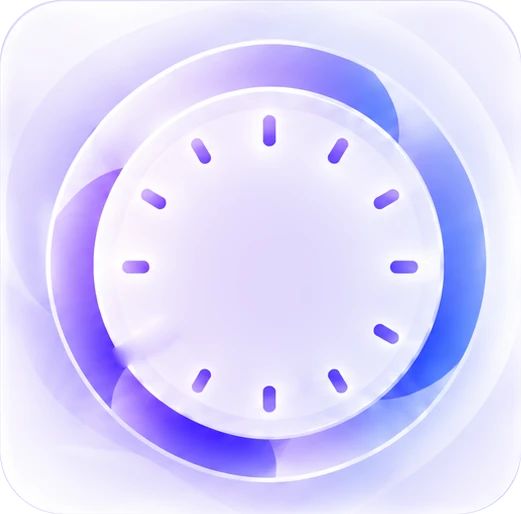
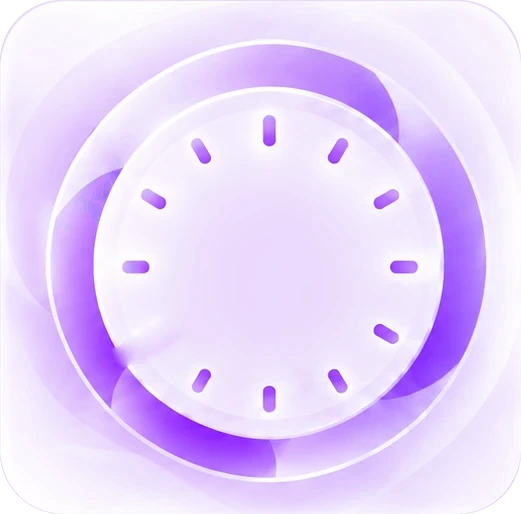
Update 5 · 3: the Clock widget in violet / lilac — no blue left (picture, marks, hands, time)
The blue hues of the card art are moved into the logo's violet range with
saturation and brightness kept, so the gradients stay soft. The dial layout,
12 marks, three live hands and the 2 × 2 / 4 × 2 content are unchanged.

Claude-Session: https://claude.ai/code/session_01WDFR9r65Qa3xHCEuWiWfKe

diff --git a/apps/web/src/os/home/widgets.tsx b/apps/web/src/os/home/widgets.tsx
@@ -176,26 +176,26 @@ function ClockFace({ zone, className, style }: { zone: string; className?: strin
       <defs>
         {/* The marks of the picture: deep violet at the centre side, lighter outwards. */}
         <linearGradient id={id("tick")} gradientUnits="userSpaceOnUse" x1="100" y1="30.7" x2="100" y2="14.2">
-          <stop offset="0" stopColor="#7754fd" />
-          <stop offset="1" stopColor="#b08cfc" />
+          <stop offset="0" stopColor="#a954fd" />
+          <stop offset="1" stopColor="#c78cfc" />
         </linearGradient>
         {/* The hands: a deep blue-violet at the centre, lavender at the tip (as in the picture). */}
         <linearGradient id={id("hand")} gradientUnits="userSpaceOnUse" x1="100" y1="100" x2="100" y2="22">
-          <stop offset="0" stopColor="#3b20ef" />
-          <stop offset="0.55" stopColor="#6f4dfb" />
-          <stop offset="1" stopColor="#ad97ff" />
+          <stop offset="0" stopColor="#8520ef" />
+          <stop offset="0.55" stopColor="#a44dfb" />
+          <stop offset="1" stopColor="#cb97ff" />
         </linearGradient>
         <radialGradient id={id("knobRing")} cx="0.42" cy="0.38" r="0.62">
-          <stop offset="0" stopColor="#d4c6fe" />
-          <stop offset="0.72" stopColor="#9374fc" />
-          <stop offset="1" stopColor="#b9a0fd" />
+          <stop offset="0" stopColor="#e3c6fe" />
+          <stop offset="0.72" stopColor="#b974fc" />
+          <stop offset="1" stopColor="#d0a0fd" />
         </radialGradient>
         <radialGradient id={id("knob")} cx="0.38" cy="0.32" r="0.7">
-          <stop offset="0" stopColor="#f1ecff" />
-          <stop offset="1" stopColor="#c3b0fd" />
+          <stop offset="0" stopColor="#f6ecff" />
+          <stop offset="1" stopColor="#d7b0fd" />
         </radialGradient>
         <filter id={id("sh")} filterUnits="userSpaceOnUse" x="-20" y="-20" width="240" height="240">
-          <feDropShadow dx="0" dy="1.6" stdDeviation="1.8" floodColor="#3a1fd6" floodOpacity="0.3" />
+          <feDropShadow dx="0" dy="1.6" stdDeviation="1.8" floodColor="#791fd6" floodOpacity="0.3" />
         </filter>
       </defs>
       {Array.from({ length: 12 }, (_, i) => (
@@ -208,7 +208,7 @@ function ClockFace({ zone, className, style }: { zone: string; className?: strin
         <line x1={100} y1={106} x2={100} y2={27} stroke={url("hand")} strokeWidth={8.5} strokeLinecap="round" filter={url("sh")} />
       </g>
       <g ref={second} data-testid="clock-widget-second">
-        <line x1={100} y1={124} x2={100} y2={10} stroke="#4526f0" strokeWidth={2.4} strokeLinecap="round" filter={url("sh")} />
+        <line x1={100} y1={124} x2={100} y2={10} stroke="#8926f0" strokeWidth={2.4} strokeLinecap="round" filter={url("sh")} />
       </g>
       <circle cx={100} cy={100} r={17} fill={url("knobRing")} filter={url("sh")} />
       <circle cx={100} cy={100} r={10.5} fill={url("knob")} />
@@ -291,7 +291,7 @@ function ClockWidget({ preview, size }: { preview?: boolean; size?: WidgetSize }
             <span className="truncate font-semibold leading-tight text-[#1d1b2b]" style={{ fontSize: "7.6em" }} data-testid="clock-widget-city">
               {city}
             </span>
-            <span className="bg-[linear-gradient(135deg,#8e6bff,#5a3ef2)] bg-clip-text font-bold leading-[1.02] tracking-[-0.02em] text-transparent tabular-nums" style={{ fontSize: "26em" }} data-testid="clock-widget-time">
+            <span className="bg-[linear-gradient(135deg,#b66bff,#973ef2)] bg-clip-text font-bold leading-[1.02] tracking-[-0.02em] text-transparent tabular-nums" style={{ fontSize: "26em" }} data-testid="clock-widget-time">
               {time}
             </span>
             <span className="truncate text-[#7a7690]" style={{ fontSize: "5.9em" }}>
